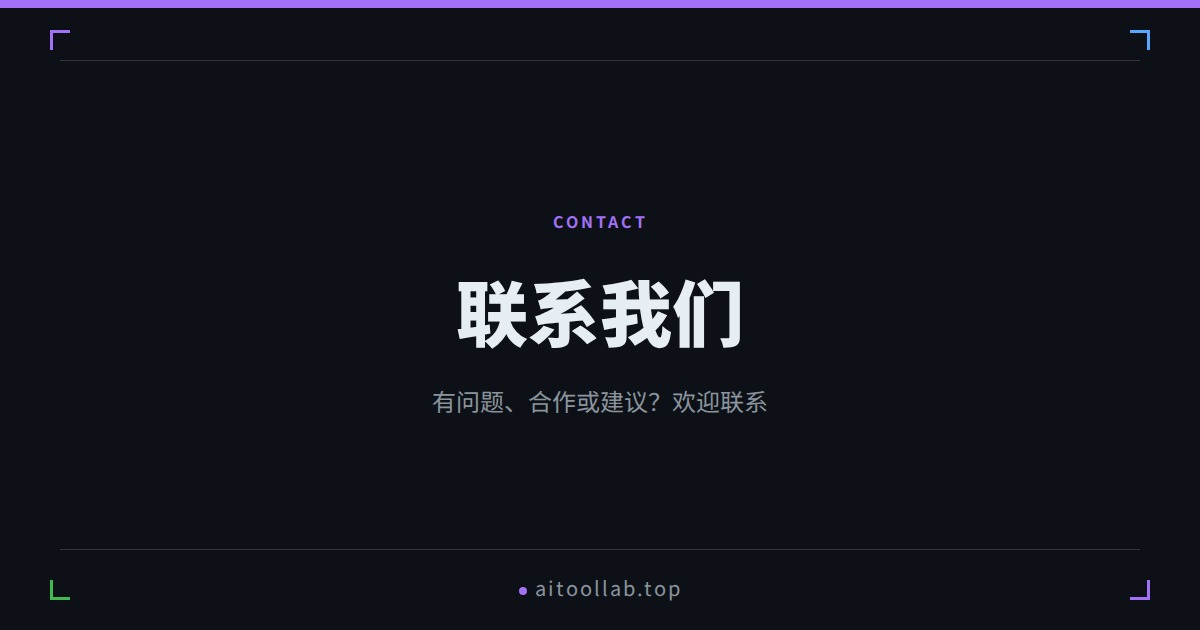
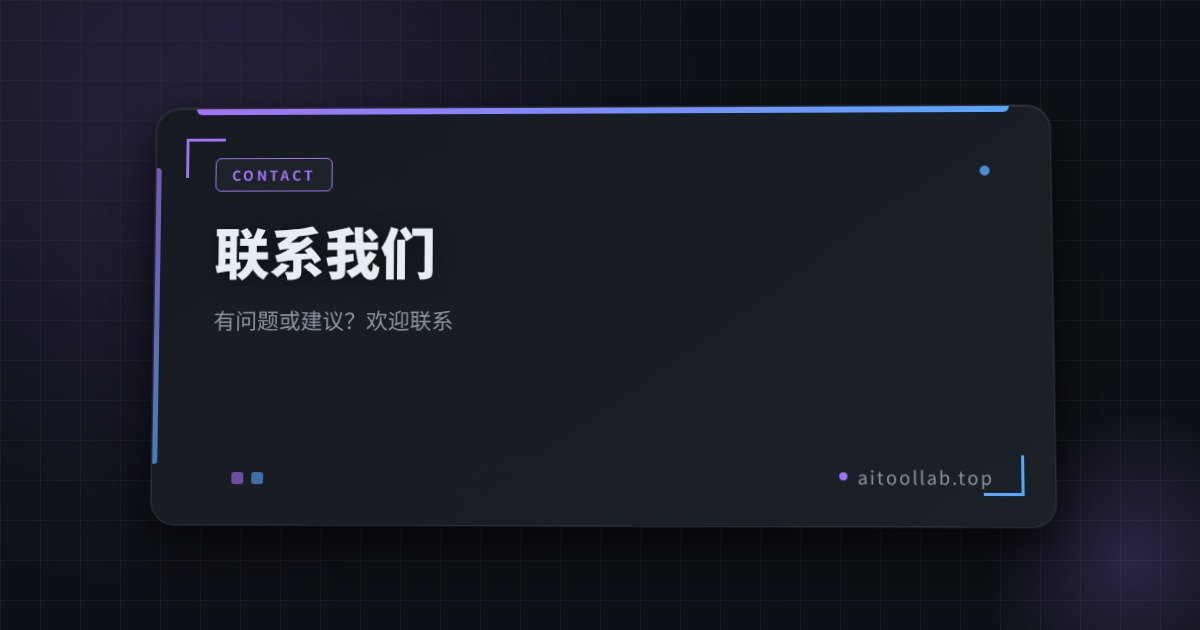
fix: 修复多页面og标签多余'>'符号 + 重做全站OG图(3D立体风格)

diff --git a/contact/index.html b/contact/index.html
@@ -7,6 +7,11 @@
     <title>购买 AI 副业提示词包｜AiToollab</title>
     <meta name="description" content="购买 AiToollab 出品的 AI 副业提示词包，包含 50+ 精选提示词，实测有效，24小时内发货。">
     <meta name="robots" content="noindex, nofollow">
+    <meta property="og:title" content="购买 AI 副业提示词包｜AiToollab">
+    <meta property="og:image" content="https://www.aitoollab.top/og-contact.jpg">
+    <meta property="og:description" content="购买 AiToollab 出品的 AI 副业提示词包">
+    <meta property="og:type" content="product">
+    <meta property="og:url" content="https://www.aitoollab.top/contact/">
     <style>
         :root { --bg: #0d1117; --card: #161b22; --border: #30363d; --text: #e6edf3; --muted: #8b949e; --accent: #58a6ff; --green: #3fb950; --gold: #f0b429; --red: #f85149; }
         * { margin: 0; padding: 0; box-sizing: border-box; }

diff --git a/notion-side-hustle/index.html b/notion-side-hustle/index.html
@@ -5,8 +5,8 @@
     <meta name="viewport" content="width=device-width, initial-scale=1.0">
     <title>Notion 副业管理模板 - AI副业工具箱</title>
     <meta name="description" content="Notion 副业追踪看板：任务管理 + 收入记录 + 目标追踪，一表搞定副业">
-    <meta property="og:title" content="Notion 副业管理模板"
-    <meta property="og:image" content="https://www.aitoollab.top/og-notion-side-hustle.jpg">>
+    <meta property="og:title" content="Notion 副业管理模板">
+    <meta property="og:image" content="https://www.aitoollab.top/og-notion-side-hustle.jpg">
     <meta property="og:description" content="把副业当成真正的 Business 来管理">
     <meta property="og:type" content="product.item">
     <link rel="canonical" href="https://www.aitoollab.top/notion-side-hustle/">

diff --git a/xhs-headlines/index.html b/xhs-headlines/index.html
@@ -5,8 +5,8 @@
     <meta name="viewport" content="width=device-width, initial-scale=1.0">
     <title>小红书爆款标题合集 - AI副业工具箱</title>
     <meta name="description" content="200+ 小红书爆款标题模板，覆盖美妆/穿搭/母婴/美食/旅游 5大赛道，直接套用">
-    <meta property="og:title" content="小红书爆款标题合集"
-    <meta property="og:image" content="https://www.aitoollab.top/og-xhs-headlines.jpg">>
+    <meta property="og:title" content="小红书爆款标题合集">
+    <meta property="og:image" content="https://www.aitoollab.top/og-xhs-headlines.jpg">
     <meta property="og:description" content="让点击率提升 3 倍的标题公式">
     <meta property="og:type" content="product.item">
     <link rel="canonical" href="https://www.aitoollab.top/xhs-headlines/">

diff --git a/resume-ai-prompts/index.html b/resume-ai-prompts/index.html
@@ -5,8 +5,8 @@
     <meta name="viewport" content="width=device-width, initial-scale=1.0">
     <title>简历优化神器提示词 - AI副业工具箱</title>
     <meta name="description" content="专业的 AI 简历优化提示词，让 HR 和猎头主动找你">
-    <meta property="og:title" content="简历优化神器提示词"
-    <meta property="og:image" content="https://www.aitoollab.top/og-resume-ai-prompts.jpg">>
+    <meta property="og:title" content="简历优化神器提示词">
+    <meta property="og:image" content="https://www.aitoollab.top/og-resume-ai-prompts.jpg">
     <meta property="og:description" content="投出去的简历石沉大海？让 AI 帮你脱颖而出">
     <meta property="og:type" content="product.item">
     <link rel="canonical" href="https://www.aitoollab.top/resume-ai-prompts/">

diff --git a/articles/index.html b/articles/index.html
@@ -12,8 +12,8 @@
     <meta name="description" content="AiToollab所有AI副业实战文章，包括副业方向、变现路径、工具推荐、提示词教程等。持续更新。">
     <meta name="robots" content="index, follow">
 
-    <meta property="og:title" content="AI副业情报｜所有文章列表"
-    <meta property="og:image" content="https://www.aitoollab.top/og-articles.jpg">>
+    <meta property="og:title" content="AI副业情报｜所有文章列表">
+    <meta property="og:image" content="https://www.aitoollab.top/og-articles.jpg">
     <meta property="og:description" content="AiToollab所有AI副业实战文章，持续更新。">
     <meta property="og:type" content="website">
     <meta property="og:url" content="https://www.aitoollab.top/articles/">

diff --git a/claude-code-token-saving/index.html b/claude-code-token-saving/index.html
@@ -17,8 +17,8 @@
 
     <meta name="ai-content" content="allowed">
 
-    <meta property="og:title" content="省Token就是省钱：穴居人说话法让我每月少花60%API费"
-    <meta property="og:image" content="https://www.aitoollab.top/og-claude-code-token-saving.jpg">>
+    <meta property="og:title" content="省Token就是省钱：穴居人说话法让我每月少花60%API费">
+    <meta property="og:image" content="https://www.aitoollab.top/og-claude-code-token-saving.jpg">
     <meta property="og:description" content="GitHub 45k星神技：用穴居人说话法省65% Token，实测有效。">
     <meta property="og:type" content="article">
     <meta property="og:url" content="https://www.aitoollab.top/claude-code-token-saving/">

diff --git a/ai-digital-products-passive-income/index.html b/ai-digital-products-passive-income/index.html
@@ -20,7 +20,7 @@
     <meta property="og:description" content="2026年最适合普通人的副业方向。5种高变现数字产品类型，从制作到变现的完整攻略，普通人也能做到月入5000+。">
     <meta property="og:type" content="article">
     <meta property="og:url" content="https://www.aitoollab.top/ai-digital-products-passive-income/">
-    <meta property="og:image" content="https://www.aitoollab.top/og-image.jpg">
+    <meta property="og:image" content="https://www.aitoollab.top/og-ai-digital-products-passive-income.jpg">
     <meta property="og:site_name" content="AiToollab">
     <meta property="og:locale" content="zh_CN">
     <meta property="article:published_time" content="2026-04-20T00:00:00+08:00">

diff --git a/multi-agent-side-hustle/index.html b/multi-agent-side-hustle/index.html
@@ -20,7 +20,7 @@
     <meta property="og:description" content="详解5大变现方向、3大主流框架对比、从0到1搭建步骤。2026年AI副业新风口，普通人如何用Multi-Agent赚到第一笔钱。">
     <meta property="og:type" content="article">
     <meta property="og:url" content="https://www.aitoollab.top/multi-agent-side-hustle/">
-    <meta property="og:image" content="https://www.aitoollab.top/og-image.jpg">
+    <meta property="og:image" content="https://www.aitoollab.top/og-multi-agent-side-hustle.jpg">
     <meta property="og:site_name" content="AiToollab">
     <meta property="og:locale" content="zh_CN">
     <meta property="article:published_time" content="2026-04-20T00:00:00+08:00">

diff --git a/local-business-ai-agent/index.html b/local-business-ai-agent/index.html
@@ -21,7 +21,7 @@
     <meta property="og:description" content="无需编程基础，帮本地商家搭建AI客服、预约助手、营销文案系统。单次搭建费1000-3000元，月维护费300-1000元。">
     <meta property="og:type" content="article">
     <meta property="og:url" content="https://www.aitoollab.top/local-business-ai-agent/">
-    <meta property="og:image" content="https://www.aitoollab.top/og-image.jpg">
+    <meta property="og:image" content="https://www.aitoollab.top/og-local-business-ai-agent.jpg">
     <meta property="og:site_name" content="AiToollab">
     <meta property="og:locale" content="zh_CN">
     <meta property="article:published_time" content="2026-04-20T00:00:00+08:00">

diff --git a/ai-side-hustle-guide/index.html b/ai-side-hustle-guide/index.html
@@ -21,7 +21,7 @@
     <meta property="og:description" content="完整AI副业实战路线图，含步骤、工具和变现路径。普通人从0开始，照着做就能赚到第一笔钱。">
     <meta property="og:type" content="article">
     <meta property="og:url" content="https://www.aitoollab.top/ai-side-hustle-guide/">
-    <meta property="og:image" content="https://www.aitoollab.top/og-image.jpg">
+    <meta property="og:image" content="https://www.aitoollab.top/og-ai-side-hustle-guide.jpg">
     <meta property="og:site_name" content="AiToollab">
     <meta property="og:locale" content="zh_CN">
     <meta property="article:published_time" content="2026-04-20T00:00:00+08:00">

diff --git a/ai-writing-side-hustle/index.html b/ai-writing-side-hustle/index.html
@@ -24,7 +24,7 @@
     <meta property="og:description" content="普通人用AI写作月入3000+的实战指南，含平台选择、内容定位、提示词技巧和避坑指南。">
     <meta property="og:type" content="article">
     <meta property="og:url" content="https://www.aitoollab.top/ai-writing-side-hustle/">
-    <meta property="og:image" content="https://www.aitoollab.top/og-image.jpg">
+    <meta property="og:image" content="https://www.aitoollab.top/og-ai-writing-side-hustle.jpg">
     <meta property="og:site_name" content="AiToollab">
     <meta property="og:locale" content="zh_CN">
     <meta property="article:published_time" content="2026-04-21T20:00:00+08:00">

diff --git a/index.html b/index.html
@@ -32,7 +32,7 @@
     <meta property="og:description" content="实测10种AI副业方向，含完整提示词和使用方法。普通人从零开始，AI帮你找方向、写内容、做分析。">
     <meta property="og:type" content="article">
     <meta property="og:url" content="https://www.aitoollab.top/">
-    <meta property="og:image" content="https://www.aitoollab.top/og-image.jpg">
+    <meta property="og:image" content="https://www.aitoollab.top/og.jpg">
     <meta property="og:site_name" content="AI副业加速器">
     <meta property="og:locale" content="zh_CN">
     <meta property="article:published_time" content="2026-04-18T00:00:00+08:00">
